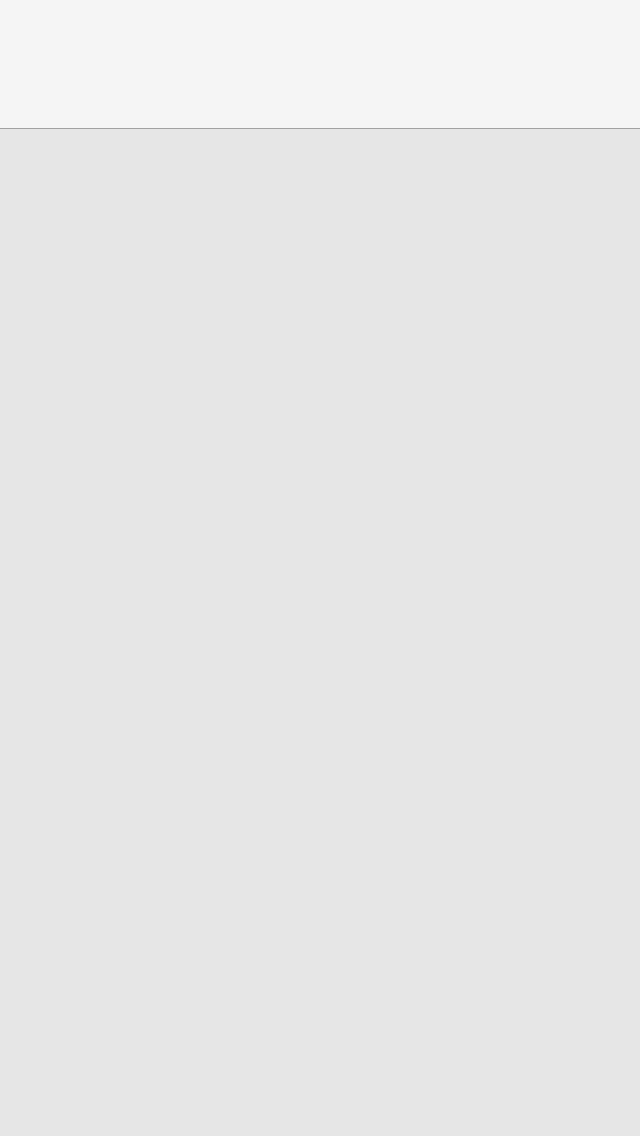
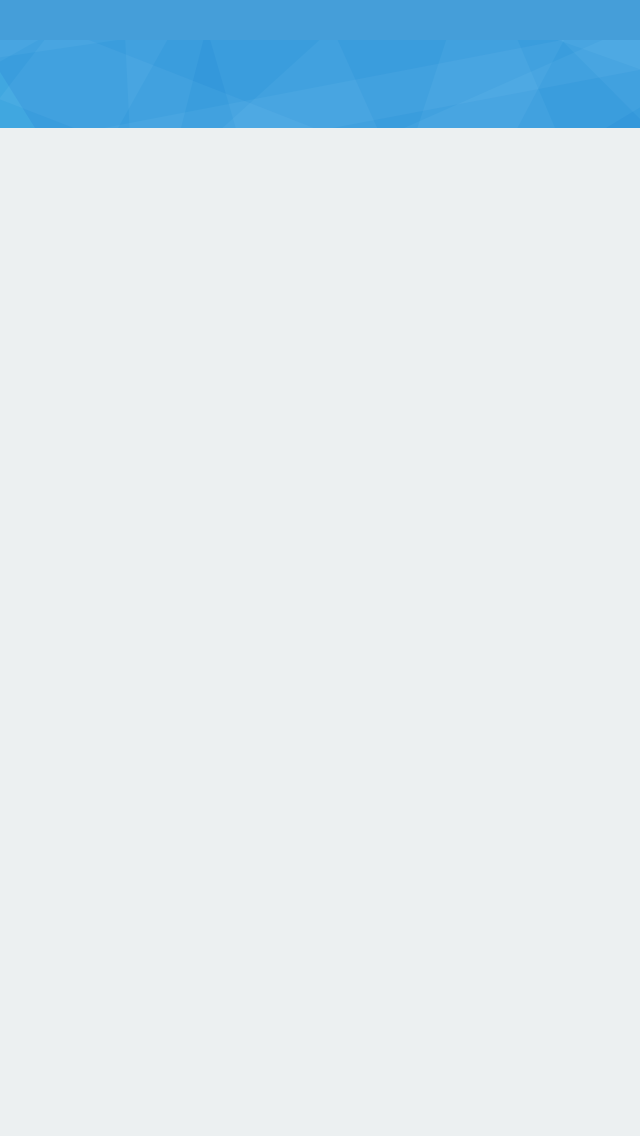
More minor UI polish, work on making the DB backend more robust

Changed region(s): [[0.0, 0.0, 1.0, 0.1232]]

diff --git a/QuickHAC/QuickHAC/SQUGradeOverviewTableViewCell.m b/QuickHAC/QuickHAC/SQUGradeOverviewTableViewCell.m
@@ -12,6 +12,7 @@
 #import "SQUGradeOverviewTableViewCell.h"
 #import "SQUCoreData.h"
 #import "SQUDistrictManager.h"
+#import "SQUUIHelpers.h"
 #import "SQUGradeManager.h"
 #import "UIColor+SQUColourUtilities.h"
 
@@ -325,7 +326,7 @@
 					
 					if(cycle.average.unsignedIntegerValue != 0) {
 						average.string = [NSString stringWithFormat:NSLocalizedString(@"%u", nil), cycle.average.unsignedIntegerValue];
-						bg.backgroundColor = [SQUGradeOverviewTableViewCell colourizeGrade:cycle.average.floatValue].CGColor;
+						bg.backgroundColor = [SQUUIHelpers colourizeGrade:cycle.average.floatValue withAsianness:[[NSUserDefaults standardUserDefaults] floatForKey:@"asianness"] andHue:[[NSUserDefaults standardUserDefaults] floatForKey:@"gradesHue"] / 360.0].CGColor;
 					} else {
 						average.string = NSLocalizedString(@"-", nil);
 						bg.backgroundColor = UIColorFromRGB(0xe0e0e0).CGColor;
@@ -342,7 +343,7 @@
 							bg.backgroundColor = UIColorFromRGB(0xe0e0e0).CGColor;
 						} else {
 							average.string = [NSString stringWithFormat:NSLocalizedString(@"%u", nil), sem.examGrade.unsignedIntegerValue];
-							bg.backgroundColor = [SQUGradeOverviewTableViewCell colourizeGrade:sem.examGrade.floatValue].CGColor;
+							bg.backgroundColor = [SQUUIHelpers colourizeGrade:sem.examGrade.floatValue withAsianness:[[NSUserDefaults standardUserDefaults] floatForKey:@"asianness"] andHue:[[NSUserDefaults standardUserDefaults] floatForKey:@"gradesHue"] / 360.0].CGColor;
 						}
 					} else if(offset == 1) { // semester average
 						if(sem.average.integerValue == -1) {
@@ -350,7 +351,7 @@
 							bg.backgroundColor = UIColorFromRGB(0xe0e0e0).CGColor;
 						} else {
 							average.string = [NSString stringWithFormat:NSLocalizedString(@"%u", nil), sem.average.unsignedIntegerValue];
-							bg.backgroundColor = [SQUGradeOverviewTableViewCell colourizeGrade:sem.average.floatValue].CGColor;
+							bg.backgroundColor = [SQUUIHelpers colourizeGrade:sem.average.floatValue withAsianness:[[NSUserDefaults standardUserDefaults] floatForKey:@"asianness"] andHue:[[NSUserDefaults standardUserDefaults] floatForKey:@"gradesHue"] / 360.0].CGColor;
 						}
 					}
 				}
@@ -456,38 +457,6 @@ drawNoGradesAvailable: ;
 	}
 	
 	[_backgroundLayer addSublayer:_noGradesAvailable];
-}
-
-+ (UIColor *) colourizeGrade:(float) grade {
-    // Makes sure asianness cannot be negative
-    float asianness = MAX([[NSUserDefaults standardUserDefaults] floatForKey:@"asianness"], 0);
-    
-    // interpolate a hue gradient and convert to rgb
-    float h, s, v;
-    
-    // determine color. ***MAGIC DO NOT TOUCH UNDER ANY CIRCUMSTANCES***
-    if (grade > 100) {
-        h = 0.13055;
-        s = 0;
-        v = 1;
-    } else if (grade < 0) {
-        h = 0;
-        s = 1;
-        v = 0.86945;
-    } else {
-        h = MIN(0.25 * pow(grade / 100, asianness), 0.13056);
-        s = 1 - pow(grade / 100, asianness * 2);
-        v = 0.86945 + h;
-    }
-	
-	// Hue must be between 0 and 1.0 for this code
-	float hue = [[NSUserDefaults standardUserDefaults] floatForKey:@"gradesHue"] / 360.0;
-    
-    h += hue;
-//	h %= 1;
-	if (h < 0) h += 1;
-    
-    return [UIColor colorWithHue:h saturation:s brightness:v alpha:1.0];
 }
 
 + (UIColor *) colourForLetterGrade:(NSString *) grade {

diff --git a/QuickHAC/QuickHAC/SQUAppDelegate.m b/QuickHAC/QuickHAC/SQUAppDelegate.m
@@ -53,6 +53,25 @@ static SQUAppDelegate *sharedDelegate = nil;
 	NSAssert(defaultPreferences, @"Default preferences could not be loaded from URL %@", defaultPreferencesURL);
 	[[NSUserDefaults standardUserDefaults] registerDefaults:defaultPreferences];
 	
+	// See if the user updated the app
+	NSString *appVersion = [[NSBundle mainBundle] objectForInfoDictionaryKey: @"CFBundleShortVersionString"];
+	NSString *lastVersion = [[NSUserDefaults standardUserDefaults] stringForKey:@"lastAppVersion"];
+	
+	if(lastVersion) {
+		if([lastVersion isEqualToString:appVersion]) {
+			// not updated since last launch
+		} else {
+			NSLog(@"User updated from %@ to %@", lastVersion, appVersion);
+			[[NSUserDefaults standardUserDefaults] setObject:appVersion forKey:@"lastAppVersion"];
+			[[NSUserDefaults standardUserDefaults] synchronize];
+		}
+	} else {
+		NSLog(@"User is running %@ for first time", appVersion);
+		
+		[[NSUserDefaults standardUserDefaults] setObject:appVersion forKey:@"lastAppVersion"];
+		[[NSUserDefaults standardUserDefaults] synchronize];
+	}
+	
     // Used for the entire singleton thing
     sharedDelegate = self;
     
@@ -84,7 +103,7 @@ static SQUAppDelegate *sharedDelegate = nil;
 		[[UINavigationBar appearance] setBackgroundColor:UIColorFromRGB(kSQUColourNavbarBG)];
 		[[UINavigationBar appearance] setTitleTextAttributes:@{
 															   NSForegroundColorAttributeName: UIColorFromRGB(kSQUColourTitle),
-															   NSFontAttributeName: [UIFont fontWithName:@"HelveticaNeue-Light" size:0.0],
+															   NSFontAttributeName: [UIFont fontWithName:@"HelveticaNeue-Medium" size:0.0],
 															   }];
 		[[UINavigationBar appearance] setBackgroundImage:[UIImage imageNamed:@"navbar_bg"] forBarMetrics:UIBarMetricsDefault];
 		

diff --git a/QuickHAC/QuickHAC/SQUClassDetailController.m b/QuickHAC/QuickHAC/SQUClassDetailController.m
@@ -39,8 +39,8 @@
 		self.tableView.separatorStyle = UITableViewCellSeparatorStyleNone;
         
 		self.tableView.backgroundView = [[UIView alloc] initWithFrame:self.tableView.frame];
-		self.tableView.backgroundView.backgroundColor = [UIColor colorWithWhite:0.9 alpha:1.0];
-		[self.tableView.backgroundView applyNoiseWithOpacity:0.15f];
+		self.tableView.backgroundView.backgroundColor = UIColorFromRGB(kSQUColourTableBackground);
+		// [self.tableView.backgroundView applyNoiseWithOpacity:0.15f];
 		
         _course = course;
 		self.title = course.title;
@@ -98,7 +98,7 @@
 	
 	_titleLayer = [CATextLayer new];
 	_titleLayer.frame = CGRectMake(0, 4, 200, 28);
-	_titleLayer.font = (__bridge CFTypeRef)([UIFont fontWithName:@"HelveticaNeue-Light" size:26.0]);
+	_titleLayer.font = (__bridge CFTypeRef)([UIFont fontWithName:@"HelveticaNeue-Medium" size:26.0]);
 	_titleLayer.fontSize = 17.0f;
 	_titleLayer.contentsScale = [UIScreen mainScreen].scale;
 	_titleLayer.foregroundColor = UIColorFromRGB(kSQUColourTitle).CGColor;
@@ -179,6 +179,7 @@
  */
 - (void) changeNoDataDisplay {
 	if(_currentCycle.categories.count == 0) {
+		[self.tableView scrollRectToVisible:CGRectMake(0, 0, 1, 1) animated:YES];
 		[self showEmptyView];
 	} else {
 		[self hideEmptyView];
@@ -344,7 +345,7 @@
 	
 	[self.refreshControl endRefreshing];
 	if(_currentCycle.categories.count != 0) {
-		[self.tableView scrollToRowAtIndexPath:[NSIndexPath indexPathForRow:0 inSection:0] atScrollPosition:UITableViewScrollPositionTop animated:NO];
+		[self.tableView scrollRectToVisible:CGRectMake(0, 0, 1, 1) animated:YES];
 	}
 	
 	[self.view addSubview:_emptyView];

diff --git a/QuickHAC/QuickHAC/SQULoginViewController.m b/QuickHAC/QuickHAC/SQULoginViewController.m
@@ -83,7 +83,7 @@
     _tableMovedAlready = NO;
 	
 	// Background
-	_background = [[UIImageView alloc] initWithImage:[UIImage imageNamed:@"blurry_bg.jpg"]];
+/*	_background = [[UIImageView alloc] initWithImage:[UIImage imageNamed:@"blurry_bg.jpg"]];
 	_background.frame = CGRectMake(0, 0, self.view.frame.size.width, self.view.frame.size.height);
 	_background.alpha =  0.75;
 	_background.opaque = YES;
@@ -111,7 +111,7 @@
 	group.motionEffects = @[horizontalMotionEffect, verticalMotionEffect];
 	
 	// Add both effects to your view
-	[_background addMotionEffect:group];
+	[_background addMotionEffect:group];*/
 	
 	self.view.backgroundColor = UIColorFromRGB(kSQUColourConcrete);
 	
@@ -549,11 +549,11 @@
 	
 	selectedStudent = [students indexOfObject:student];
 	
+	// Make sure the student is in the DB
 	if(selectedStudent != NSNotFound) {
 		// Only update selection if there's no other students in the database
 		if(students.count == _students.count) {
-			[[NSUserDefaults standardUserDefaults] setInteger:selectedStudent forKey:@"selectedStudent"];
-			[[NSUserDefaults standardUserDefaults] synchronize];
+			[[SQUGradeManager sharedInstance] changeSelectedStudent:student];
 		}
 	} else {
 		NSLog(@"student %@ is fucked man", student);

diff --git a/QuickHAC/QuickHAC/SQUGradeOverviewController.m b/QuickHAC/QuickHAC/SQUGradeOverviewController.m
@@ -40,8 +40,8 @@
 		self.tableView.separatorStyle = UITableViewCellSeparatorStyleNone;
         
 		self.tableView.backgroundView = [[UIView alloc] initWithFrame:self.tableView.frame];
-		self.tableView.backgroundView.backgroundColor = [UIColor colorWithWhite:0.9 alpha:1.0];
-		[self.tableView.backgroundView applyNoiseWithOpacity:0.15f];
+		self.tableView.backgroundView.backgroundColor = UIColorFromRGB(kSQUColourTableBackground);
+		// [self.tableView.backgroundView applyNoiseWithOpacity:0.15f];
 		
         self.title = NSLocalizedString(@"Overview", nil);
         
@@ -57,7 +57,7 @@
 		
 		_titleLayer = [CATextLayer new];
 		_titleLayer.frame = CGRectMake(0, 4, 200, 28);
-		_titleLayer.font = (__bridge CFTypeRef)([UIFont fontWithName:@"HelveticaNeue-Light" size:26.0]);
+		_titleLayer.font = (__bridge CFTypeRef)([UIFont fontWithName:@"HelveticaNeue-Medium" size:26.0]);
 		_titleLayer.fontSize = 17.0f;
 		_titleLayer.contentsScale = [UIScreen mainScreen].scale;
 		_titleLayer.foregroundColor = UIColorFromRGB(kSQUColourTitle).CGColor;

diff --git a/QuickHAC/QuickHAC/SQUSettingsStudents.m b/QuickHAC/QuickHAC/SQUSettingsStudents.m
@@ -145,6 +145,8 @@
     if (editingStyle == UITableViewCellEditingStyleDelete) {
 		NSInteger selectedStudent = [_students indexOfObject:[[SQUGradeManager sharedInstance] getSelectedStudent]];
 		
+		// Delete object from DB
+		[[SQUAppDelegate sharedDelegate].managedObjectContext deleteObject:_students[indexPath.row]];
 		[_students removeObjectAtIndex:indexPath.row];
 		
 		if(indexPath.row == selectedStudent) {
@@ -160,9 +162,6 @@
 				NSAssert(false, @"Unhandled student deletion case");
 			}
 		}
-		
-		// Delete object from DB
-		[[SQUAppDelegate sharedDelegate].managedObjectContext deleteObject:_students[indexPath.row]];
 		
 		// Do animate-y thing
         [tableView deleteRowsAtIndexPaths:@[indexPath] withRowAnimation:UITableViewRowAnimationFade];

diff --git a/QuickHAC/QuickHAC/SQUUIHelpers.m b/QuickHAC/QuickHAC/SQUUIHelpers.m
@@ -19,7 +19,7 @@
  */
 + (UIColor *) colourizeGrade:(float) grade withAsianness:(float) asianness andHue:(float) hue {
     // Makes sure asianness cannot be negative
-    NSUInteger asianness_limited = MAX(2, 0);
+    NSUInteger asianness_limited = MAX(asianness, 0);
     
     // interpolate a hue gradient and convert to rgb
     float h, s, v;
@@ -40,9 +40,8 @@
     }
     
     // apply hue transformation
-	//    h += hue;
-	//    h %= 1;
-	//    if (h < 0) h += 1;
+	h += hue;
+	if (h < 0) h += 1;
     
     return [UIColor colorWithHue:h saturation:s brightness:v alpha:1.0];
 }

diff --git a/QuickHAC/QuickHAC/SQUColourScheme.h b/QuickHAC/QuickHAC/SQUColourScheme.h
@@ -36,5 +36,6 @@
 #define kSQUColourNavbarBG kSQUColourBelizeHole
 #define kSQUColourTitle kSQUColourClouds
 #define kSQUColourSubtitle 0xe3e8e9
+#define kSQUColourTableBackground kSQUColourClouds
 
 #endif

diff --git a/QuickHAC/QuickHAC/SQUGradeOverviewTableViewCell.h b/QuickHAC/QuickHAC/SQUGradeOverviewTableViewCell.h
@@ -36,7 +36,6 @@
 
 - (void) updateUI;
 
-+ (UIColor *) colourizeGrade:(float) grade;
 + (UIColor *) colourForLetterGrade:(NSString *) grade;
 + (CGFloat) cellHeightForCourse:(SQUCourse *) course;
 
